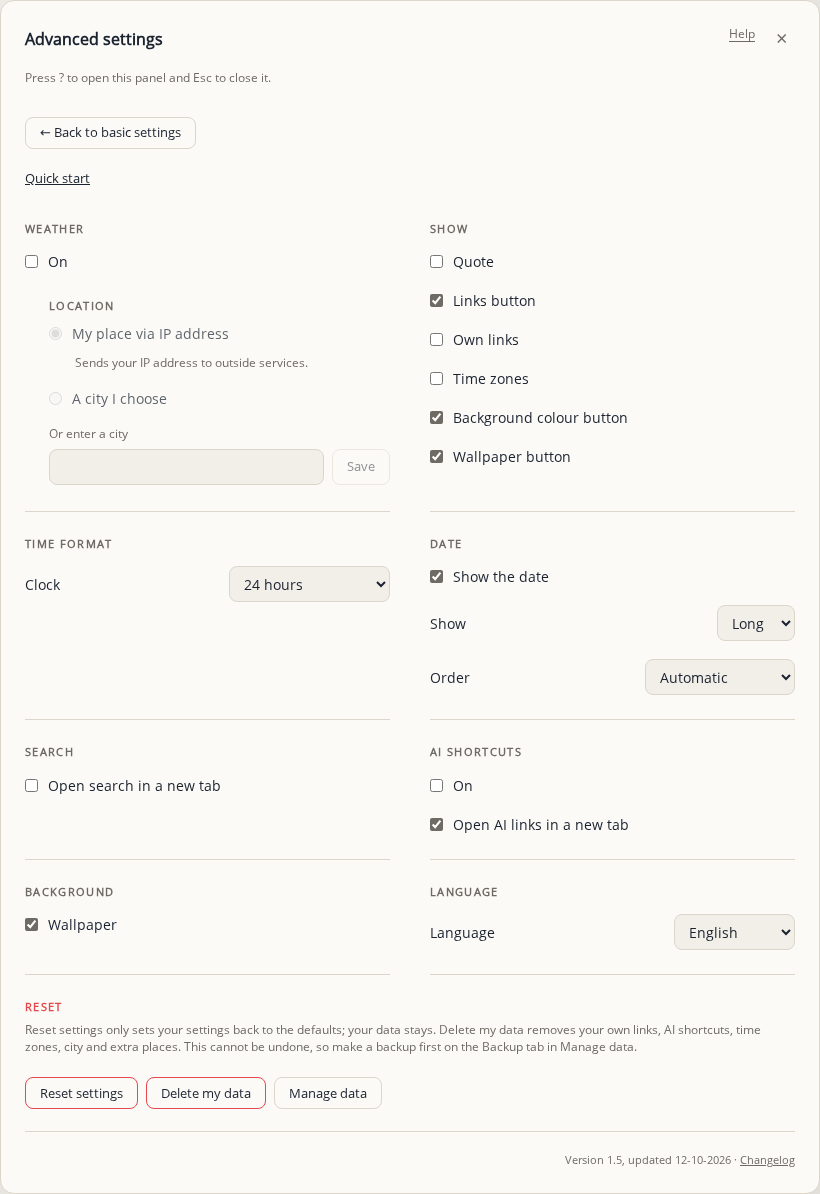
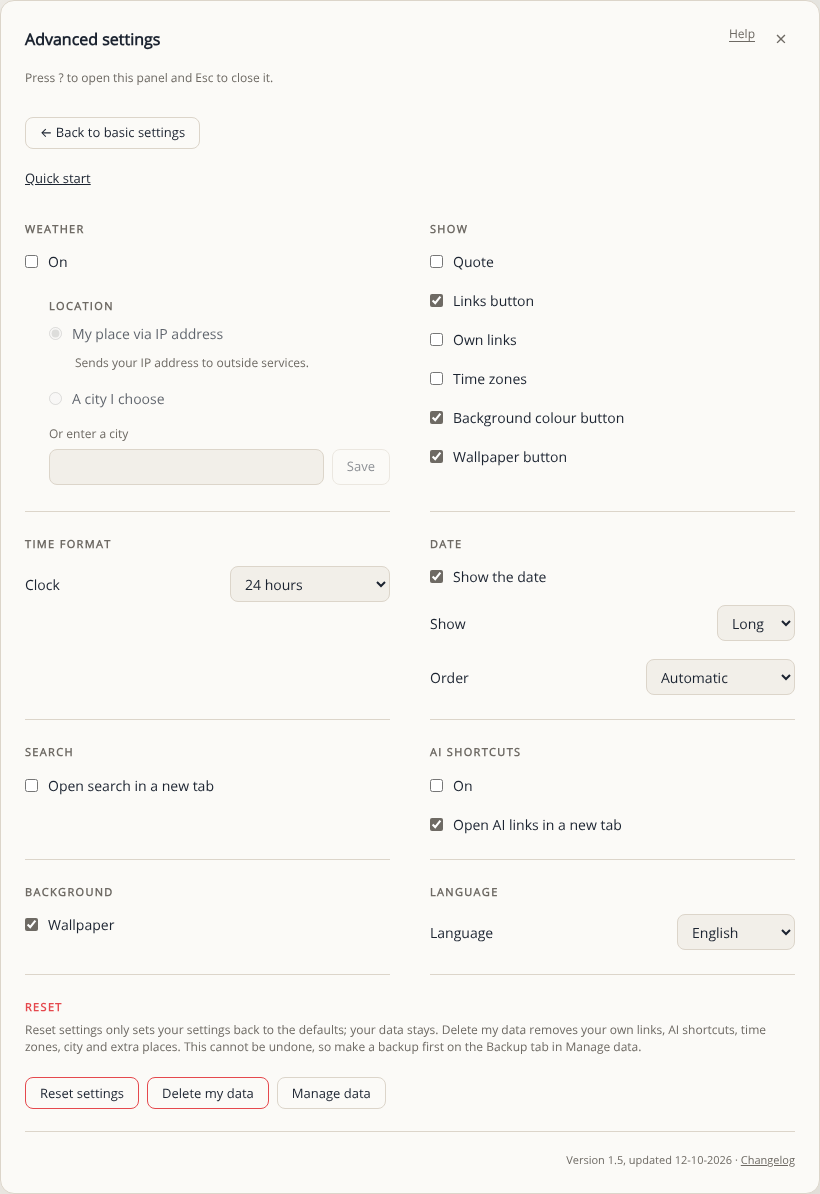
Set the app version to 1.5, with the v1.5 changelog (1.5)
Set the app version to 1.5

diff --git a/docs/changelog/v1.5.md b/docs/changelog/v1.5.md
@@ -1,0 +1,29 @@
+# v1.5
+
+Since v1.4: a Quick start window explains the search engine, the AI links and the three pages, and a first visit gets a short hint that points to the settings. The reset buttons look and behave more clearly, and the settings link to the changelog.
+
+## Highlights
+
+- **Quick start**: a window that explains the basics on one page. The search engine icon is shown with a red arrow: each click on it goes to the next engine (DuckDuckGo, Kagi, Brave or Google), and your choice is remembered. It also covers adding AI links and choosing Minimal, Standard or Advanced. It opens from the first-visit card, from the basic settings and from Help.
+- **First visit**: a small card under the top-right icons points to the settings and to the Quick start. It shows only until you read the Quick start, open the settings or press the ? key. After that it does not come back.
+- **Reset**: the two reset buttons sit under one red heading at the bottom of Advanced, at the same height as the other buttons. Manage data sits beside them, without a red frame.
+- **Weather places**: the count under the places is gone. When the list is full, the add field says so.
+- **Version and changelog**: the bottom of the basic settings shows the version and the date of the last change, with a link to the changelog.
+
+## Fixes
+
+- The Quick start has its headings in place, so the HTML check passes.
+
+## Changes after the v1.4 tag
+
+- **1.5**: the version of this release. The Quick start, the first-visit hint and the changelog link are part of it.
+- **1.4.6**: the Quick start window, with the red arrow to the search engine icon.
+- **1.4.5**: the version line in the settings links to the changelog.
+- **1.4.4**: the one-time hint on a first visit.
+- **1.4.3**: the red frame moves onto the two reset buttons themselves.
+- **1.4.2**: the reset buttons are normal height; Manage data sits beside them.
+- **1.4.1**: the count under the weather places is gone.
+
+## Notes
+
+The German, French, Spanish and Chinese texts still need a native-speaker check.

diff --git a/docs/changelog/README.md b/docs/changelog/README.md
@@ -6,6 +6,7 @@ The version shown at the bottom of the settings is the release number. Changes b
 
 | Version | What it was about | File |
 | --- | --- | --- |
+| 1.5 | Quick start with a red arrow to the search engine, first-visit hint, reset buttons, changelog link | [v1.5.md](v1.5.md) |
 | 1.4 | Limits in the add field, button states, backup tab, reset section, version in the app, hint | [v1.4.md](v1.4.md) |
 | 1.3 | Clock and date in Advanced, Minimal without date, phone layout, icons | [v1.3.md](v1.3.md) |
 | 1.2 | AI shortcuts as a checklist, new-tab options, limits, phone layout | [v1.2.md](v1.2.md) |
